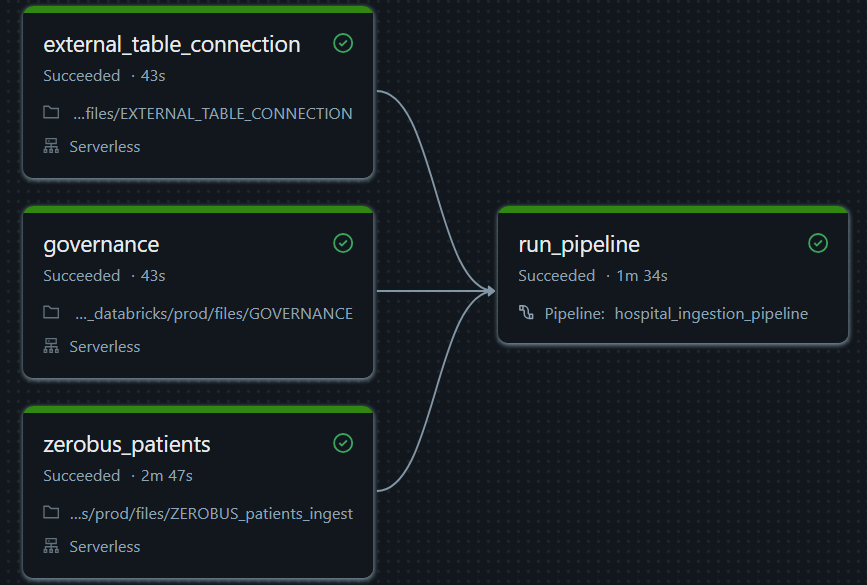
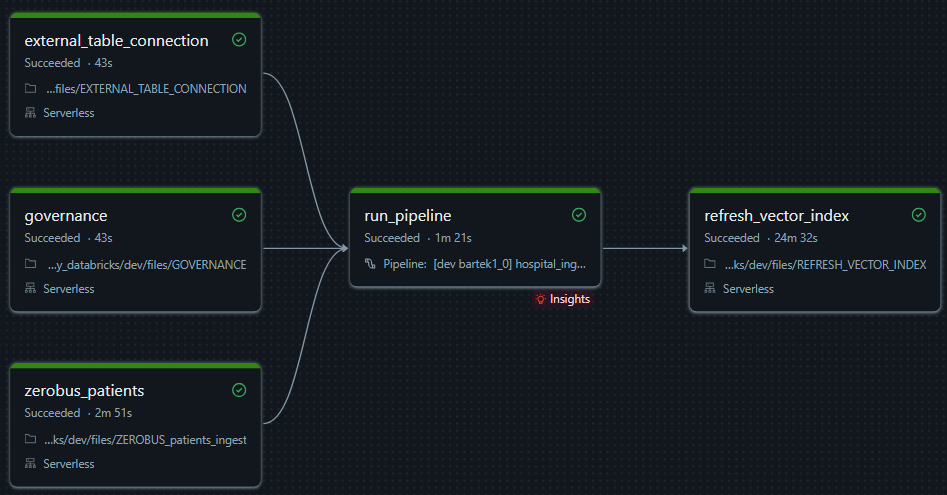
readme updated

diff --git a/README.md b/README.md
@@ -10,18 +10,61 @@ End-to-end **medallion data platform for hospital emergency-room visits** on Dat
 - **Governance:** Unity Catalog, column masks + row filter on silver, secrets from an Azure Key Vault-backed scope.
 - **Automation:** tests + bundle validate/deploy through one GitHub Actions workflow; nothing is built by hand in PROD.
 - **Analytics:** an AI/BI dashboard on top of the gold tables.
+- **RAG assistant:** a Streamlit Databricks App answers natural-language questions about ER operations, grounded in gold-layer insights indexed with **Mosaic AI Vector Search**.
 
 ## Architecture
 
 ```mermaid
-flowchart LR
-    A[CSV API App] -->|ZeroBus| B1[(patients_bronze)]
-    P[(Postgres / Neon)] -->|Lakehouse Federation| S2[doctors_silver]
-    B1 --> S1[patient_streaming_silver<br/>Auto CDC SCD1, masks + row filter]
-    S1 --> G[gold: visits_enriched + 5 aggregates]
-    S2 --> G
-    KV[Azure Key Vault<br/>secret scope] -.-> P
-    KV -.-> A
+flowchart TB
+    KV[" Azure Key Vault<br/>secret scope"]
+
+    subgraph SRC["  Sources"]
+        A["CSV API App<br/>(Databricks App)"]
+        P[("Postgres  Neon")]
+    end
+
+    subgraph BRZ["   Bronze - hospital_bronze"]
+        B1[("patients_bronze")]
+    end
+
+    subgraph SLV["  Silver - hospital_silver"]
+        S1["patient_streaming_silver<br/>Auto CDC SCD1 · masks · row filter"]
+        S2["doctors_silver<br/>4 expectations"]
+    end
+
+    subgraph GLD["  Gold - hospital_gold"]
+        G["visits_enriched<br/>+ 5 aggregates"]
+    end
+
+    subgraph USE["5  Consumers"]
+        DB[" AI/BI Dashboard"]
+        D[("rag_insight_docs_vs")]
+        V[["Vector Search index<br/>rag_insight_index"]]
+        R[" RAG Assistant App<br/>Streamlit + Llama 3.3 70B"]
+    end
+
+    KV -.-> A & P
+    A -->|ZeroBus| B1
+    P -->|Lakehouse Federation| S2
+    B1 --> S1
+    S1 & S2 --> G
+    G --> DB
+    G -->|"insight docs (MERGE)"| D
+    D -->|"Delta Sync  gte-large-en"| V
+    V -->|"top-6 retrieval"| R
+
+    classDef src fill:#dbeafe,stroke:#3b82f6,color:#111
+    classDef bronze fill:#f3dcc4,stroke:#b8732e,color:#111
+    classDef silver fill:#e5e7eb,stroke:#6b7280,color:#111
+    classDef gold fill:#fdecb3,stroke:#d4a017,color:#111
+    classDef use fill:#dcfce7,stroke:#16a34a,color:#111
+    classDef sec fill:#fee2e2,stroke:#dc2626,color:#111
+    class A,P src
+    class B1 bronze
+    class S1,S2 silver
+    class G gold
+    class DB,D,V,R use
+    class KV sec
 ```
 
 ### Lakeflow pipeline
@@ -32,7 +75,7 @@ flowchart LR
 
 ### Orchestration job
 
-Job `hospital_ingest_and_refresh`: `external_table_connection` + `zerobus_patients` + `governance` run in parallel, then `run_pipeline`.
+Job `hospital_ingest_and_refresh`: `external_table_connection` + `zerobus_patients` + `governance` run in parallel, then `run_pipeline`, then `refresh_vector_index` rebuilds the RAG documents and syncs the vector index.
 
 ![Lakeflow job run](docs/job_photo.png)
 
@@ -42,24 +85,37 @@ Job `hospital_ingest_and_refresh`: `external_table_connection` + `zerobus_patien
 | --- | --- | --- |
 | Bronze | `hospital_bronze` | `patients_bronze` (ZeroBus), volumes for CSV files and stream state |
 | Silver | `hospital_silver` | `patient_streaming_silver` (masked, row-filtered), `doctors_silver` |
-| Gold | `hospital_gold` | `visits_enriched` + 5 aggregates; no patient identifiers |
+| Gold | `hospital_gold` | `visits_enriched` + 5 aggregates; no patient identifiers. RAG: `rag_insight_docs_vs` + vector index `rag_insight_index` |
 
 ## Dashboard
 
 [emergency_hospital dashboard.lvdash.json](<emergency_hospital dashboard.lvdash.json>) answers business questions on the gold tables: doctors leaderboard, visits per month, wait time per department, wait-time heatmap by hour and weekday, admission rate and satisfaction per department.
+
+## RAG assistant
+
+**ER Operations Knowledge Assistant** (`rag_assistant_app/`) lets users ask questions such as *"Which department had the longest wait times in March?"* or *"Which doctor has the best satisfaction score?"*.
+
+1. **Documents:** `REFRESH_VECTOR_INDEX.py` turns each row of `department_monthly_stats` (department × month) and `doctor_performance` (one per doctor) into a short English sentence and MERGEs it into the Delta table `rag_insight_docs_vs` (Change Data Feed on). Only changed rows are re-embedded.
+2. **Index:** a Delta Sync index `rag_insight_index` (triggered, embeddings from `databricks-gte-large-en`) on the Vector Search endpoint `hospital-rag-endpoint`. Endpoint and index are created on the first run, later runs just trigger a sync.
+3. **App:** Streamlit chat on Databricks Apps. It retrieves the top 6 documents, sends them as context to `databricks-meta-llama-3-3-70b-instruct`, and the model answers only from that context, citing `doc_id`s. Retrieved sources are shown under each answer.
+4. **Governance:** the documents come from gold only, so no patient identifiers reach the index or the LLM. The job grants the app's service principal `SELECT` on the docs table and the index only.
+
+Model, endpoint and app name are bundle variables (`chat_model`, `embedding_model`, `vector_search_endpoint`, `rag_app_name`) in `databricks.yml`.
 
 ## Layout
 
 | Path | Role |
 | --- | --- |
 | `databricks.yml` | Asset Bundle: targets `dev` / `prod` |
-| `resources/` | job, pipeline, app, schemas + volumes |
+| `resources/` | job, pipeline, apps (CSV API + RAG assistant), schemas + volumes |
 | `hospital_ingestion_pipeline/transformations/` | Lakeflow files; pure logic in `src/` (unit tested) |
 | `hospital_ingestion_pipeline/tests/` | pytest unit tests |
 | `ZEROBUS_patients_ingest.py` | ZeroBus load into `{catalog}.hospital_bronze.patients_bronze` |
 | `EXTERNAL_TABLE_CONNECTION.py` | Postgres connection + foreign catalog `hospital_db` |
 | `GOVERNANCE.py` | creates mask / row-filter functions used by silver |
 | `csv-api-app_hospital/` | Databricks App that streams CSV rows |
+| `REFRESH_VECTOR_INDEX.py` | builds RAG documents from gold, creates / syncs the vector index, grants the app access |
+| `rag_assistant_app/` | Streamlit RAG assistant (Databricks App) |
 | `emergency_hospital dashboard.lvdash.json` | gold-layer dashboard |
 | `.github/workflows/deploy.yml` | tests + bundle validate + deploy |
 
@@ -79,13 +135,14 @@ Create Environments `dev` and `prod` (on `prod` enable **Required reviewers**). 
 
 - Column masks (`patient_id`, `first_initial`, `last_name`): shown only to group `hospital_admin`, others see `***`.
 - Row filter on `department_referral`: visible to `hospital_admin` or group `dept_<department>` (e.g. `dept_orthopedics`).
-- Gold tables contain no patient identifiers.
+- Gold tables contain no patient identifiers, so neither does the RAG index.
+- The RAG app's service principal can query only the chat model endpoint and read only the RAG docs table and index.
 
 ## One-time setup in each workspace 
 
-1. Create an **Azure Key Vault-backed** secret scope named `scope_blech` with keys: `postgresHost-blech`, `postgresUser-blech`, `postgresPassword-blech`, `sp-databricks-adls-appid`, `sp-databricks-adls-appkey`.
+1. Create an **Azure Key Vault-backed** secret scope named `scope_blech` with keys: `postgresHost-blech`, `postgresUser-blech`, `postgresPassword-blech`, `client-id-dbr-blech`, `client-secret-dbr-blech`.
 2. Create the UC catalog (`dbr_dev` / `dbr_prod`) and the account groups `hospital_admin`, `dept_*`.
-3. Create Service Principal (all apis scope) and token for GitHub Actions.
+3. Create Service Principal (all apis scope) for ZeroBus and token for GitHub Actions.
 
 
 
